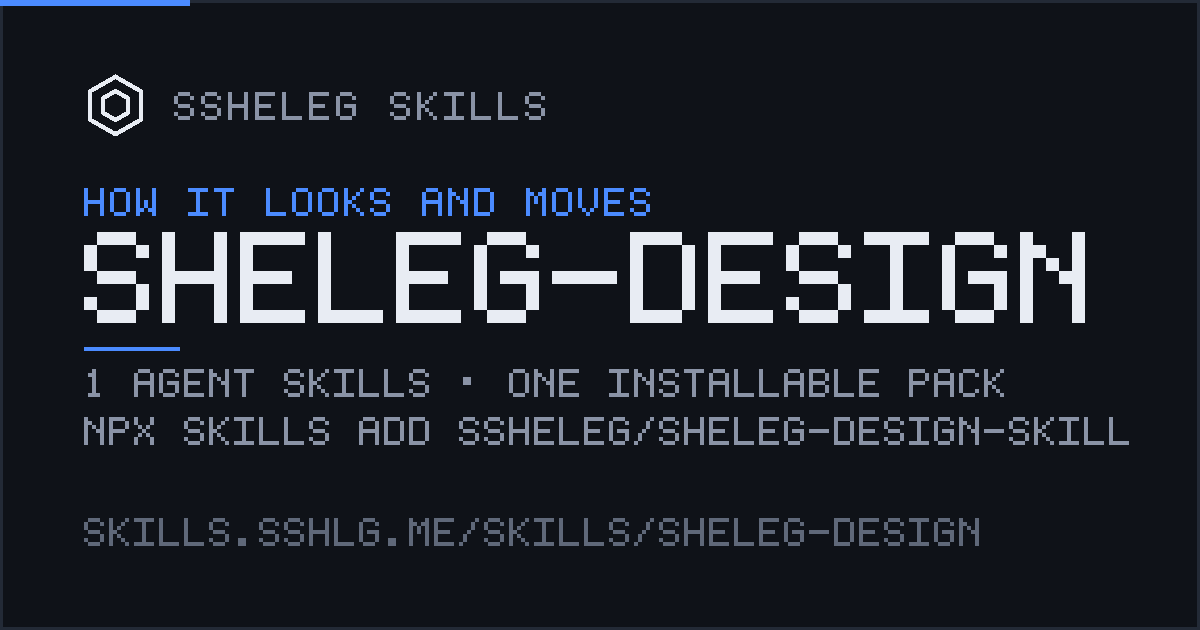
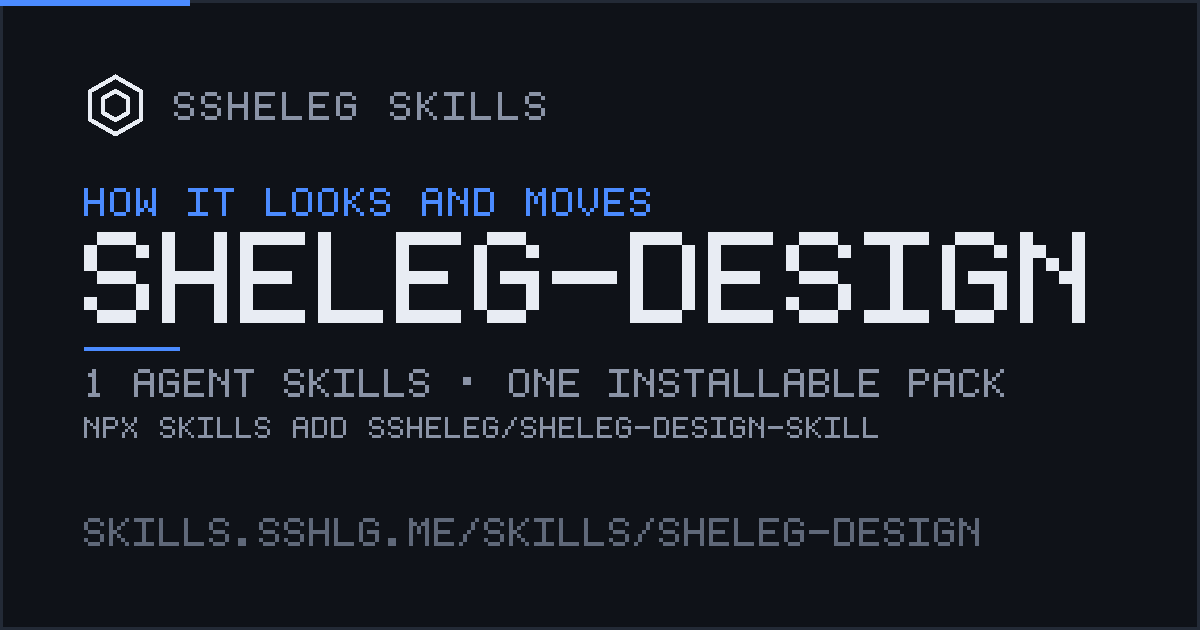
v1.58.4 — the card the umbrella renders (B-118) (#22)
The committed social preview is the umbrella's own render, byte for byte. The
pixels live here and are byte-checked from the umbrella, so only this
repository's own release can move them.

Gate: npm test rc=0.

Changed region(s): [[0.0617, 0.6635, 0.9558, 0.7238]]

diff --git a/docs/evidence/retro.md b/docs/evidence/retro.md
@@ -529,6 +529,7 @@ evidence until runs start writing their own again.
 
 | Date | Commit | Task | Diverged? |
 |---|---|---|---|
+| 2026-09-03 | working tree | **1.58.4** — the committed card is the umbrella's own render, byte for byte, with the corrected fit metric; the install line no longer overruns the padding box. The pixels are committed here and byte-checked from the umbrella, so `scripts/site.js` had to keep this member in a `LEGACY_FIT` set until its own release recommitted them — this release is that recommit, and the umbrella drops the entry in the same pass (`B-118`). | no |
 | 2026-09-01 | working tree | **1.58.3** — the registry card stopped being six releases stale. `SKILL-CARD.md` said `1.52.0` against a shipped `1.58.2`; nothing read it, because the version moves in three manifests on every release and the card was in no list. `validate_registry_card_names_the_version_that_ships` refuses a card whose `Version` row disagrees with `package.json`, and refuses one that states no version at all — a card a reader cannot see go stale is worse than one that lags visibly. Watched failing first. Measured across the family the same day: four of nine cards behind, this one second worst after `agent-stack`'s ten; the same check now sits in each of the four. | no |
 | 2026-08-31 | working tree | wave-3 family-audit closures SHD-02/04/08 — `$schema` added to both manifests (marketplace → `json.schemastore.org/claude-code-marketplace.json`, plugin → `…/claude-code-plugin-manifest.json`; `claude plugin validate` green); the GitHub About description regenerated via `gh api` WITHOUT a pack count (it said "35 style packs" over a 39-pack tree; nothing in the release path can rewrite repo metadata — the workflow's `GITHUB_TOKEN` cannot carry `administration` — so the count is dropped rather than left to go stale, decision recorded in CONTRIBUTING); and the evals actually ran — 15 trigger queries (12 authored + 3 NEW coexistence negatives naming `theme-factory` / `figma-generate-design` / `frontend-design`) probed blind in fresh isolated headless sessions (`claude -p --setting-sources ""`; prompt = query + installed-skill list + one question): `claude-haiku-4-5-20251001` 15/15, `claude-sonnet-5` 14/15 (the miss recorded: q10, a mechanical CSS-selector fix routed here); three scenarios run per model with the skill on disk, scored line by line, browser/Figma-bound lines recorded `not reproducible from this harness`. **Diverged from the wave brief's probe transport**: the Agent-tool path was exhausted by sibling agents (20-slot shared cap), so probes ran as headless CLI sessions — the same blind fresh context, stated in RESULTS.md's Method line; and the CLI's stdin-detection killed 8 first-attempt sessions (`no stdin data received`), re-run with stdin closed rather than scored as answers. **`v1.58.2` — shipped**: PR #19 squash-merged as `4bfb148`, whose tree (`05df3cf…`) is byte-identical to the CI-verified branch head `bbaab48`; ANNOTATED tag (`git cat-file -t v1.58.2` → `tag`, `git describe origin/main` → `v1.58.2`); release run 33349913269 green on both jobs, GitHub release published 2026-08-31T02:14:02Z, `npm view sheleg-design-skill version` → 1.58.2 (shasum `567d000`) | **yes** |
 | 2026-08-30 | working tree | hotfix: the front-matter description was not valid YAML **for the second time** (`Triggers: "…"` from the 1.57.0 trigger rewrite, same class as 1.37.4's `style packs: dashboards`) — every gate here reads the field with a regex, 5598 checks stayed green twice, and the umbrella's YAML gate refused the file when pinning v1.58.0. Fixed as `Triggers - "…"` (the siblings' shape; all 35 routed triggers survive, `advertised_check.js` re-run green), mirror synced byte-identical; and the reason 1.37.4 did not hold is closed — its strict gate lived in the umbrella, which CI never has above it, so `validate_front_matter_is_yaml()` now parses every shipped front-matter block with `yaml.safe_load` in THIS repo's gate, fails closed without PyYAML, watched failing on the real defect pre-fix and planted permanently in the self-test; the three workflows install PyYAML rather than assume it. **`v1.58.1` — shipped**: PR #17 squash-merged as `b0ee45f`, whose tree (`173ca7b…`) is byte-identical to the CI-verified branch head `6342fb1`; ANNOTATED tag (`git cat-file -t v1.58.1` → `tag`, `git describe origin/main` → `v1.58.1`); release run 33322813809 green on both jobs, GitHub release published 2026-08-30T16:35:29Z, `npm view sheleg-design-skill version` → 1.58.1 | **yes** |

diff --git a/CHANGELOG.md b/CHANGELOG.md
@@ -1,10 +1,17 @@
-# Changelog
-
-All notable changes to this project are documented in this file. The format
-follows [Keep a Changelog](https://keepachangelog.com/en/1.1.0/); versions
-follow [SemVer](https://semver.org/spec/v2.0.0.html).
-
 ## [Unreleased]
+
+## [1.58.4] - 2026-09-03
+
+### Fixed
+
+- The committed social preview is the umbrella's own render, byte for byte, with the
+  corrected fit metric. The install line no longer overruns the padding box.
+- `scripts/site.js` kept this member in a `LEGACY_FIT` set because the card pixels are
+  committed here and byte-checked from the umbrella: a member whose card the corrected
+  metric would repaint had to stay on the old metric until its own release recommitted
+  the card. This release is that recommit; the umbrella drops the entry in the same pass,
+  and its exactness fixture fails on a stale entry, so forgetting is loud. (`B-118`)
+
 
 ## [1.58.3] - 2026-09-01
 

diff --git a/.cursor/skills/sheleg-design/SKILL.md b/.cursor/skills/sheleg-design/SKILL.md
@@ -4,7 +4,7 @@ description: Use when deciding how something LOOKS or MOVES — cinematic landin
 license: MIT
 compatibility: Optional siblings — dataviz, shadcn, migrate-radix-to-base; each has an in-text fallback when absent.
 metadata:
-  version: 1.58.3
+  version: 1.58.4
 ---
 
 # SHELEG Design

diff --git a/plugins/sheleg-design/skills/sheleg-design/SKILL.md b/plugins/sheleg-design/skills/sheleg-design/SKILL.md
@@ -4,7 +4,7 @@ description: Use when deciding how something LOOKS or MOVES — cinematic landin
 license: MIT
 compatibility: Optional siblings — dataviz, shadcn, migrate-radix-to-base; each has an in-text fallback when absent.
 metadata:
-  version: 1.58.3
+  version: 1.58.4
 ---
 
 # SHELEG Design

diff --git a/SKILL-CARD.md b/SKILL-CARD.md
@@ -5,7 +5,7 @@
 | Field | Value |
 |---|---|
 | Pack and skill | `sheleg-design` |
-| Version | `1.58.3` |
+| Version | `1.58.4` |
 | License | MIT |
 | Source | https://github.com/ssheleg/sheleg-design-skill |
 
